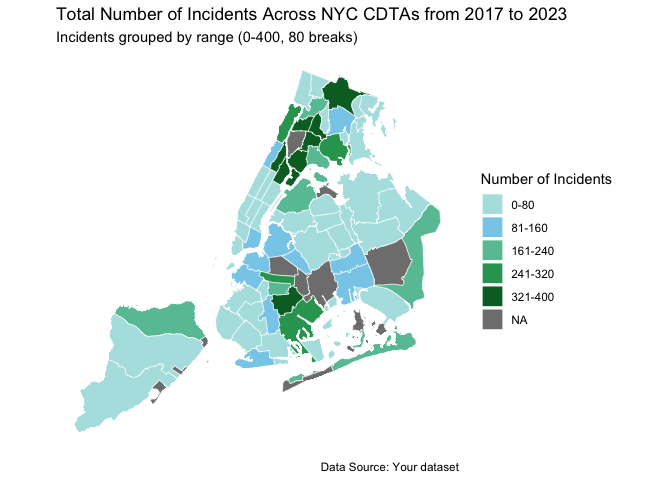
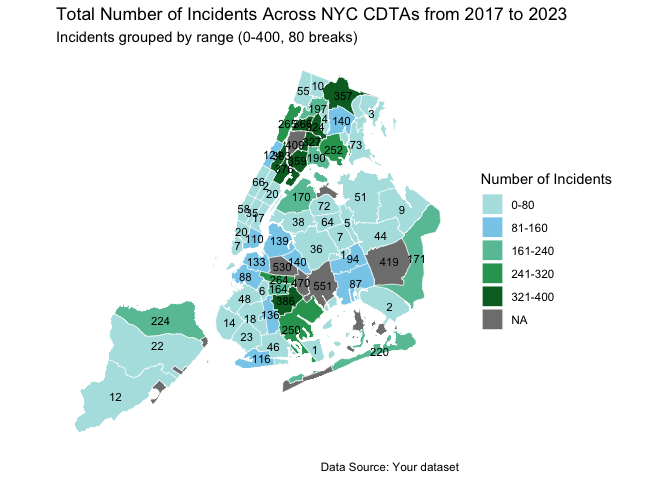
improve the plots

diff --git a/boro_nta.md b/boro_nta.md
@@ -245,6 +245,7 @@ cdta_map_data <- cdta_map_data %>%
 # Plot the map with custom ranges
 ggplot(data = cdta_map_data) +
   geom_sf(aes(fill = Incident_Range), color = "white", size = 0.2) +
+  geom_sf_text(aes(label = Number_of_Incidents), size = 3, color = "black") +  # Add labels
   scale_fill_manual(
     values = c(
       "0-80" = "#b2e2e2",
@@ -264,9 +265,14 @@ ggplot(data = cdta_map_data) +
   theme(
     axis.text = element_blank(),
     axis.ticks = element_blank(),
-    panel.grid = element_blank()
+    panel.grid = element_blank(), 
+    axis.title.x = element_blank(),  # Remove x-axis label
+    axis.title.y = element_blank()
   )
 ```
+
+    ## Warning: Removed 3 rows containing missing values or values outside the scale range
+    ## (`geom_text()`).
 
 ![](boro_nta_files/figure-gfm/unnamed-chunk-10-1.png)<!-- -->
 
@@ -302,6 +308,7 @@ boro_map_data <- boro_map_data %>%
 # Plot the map with custom ranges
 ggplot(data = boro_map_data) +
   geom_sf(aes(fill = Incident_Range), color = "white", size = 0.2) +
+  geom_sf_text(aes(label = Number_of_Incidents), size = 3, color = "black") +  # Add labels
   scale_fill_manual(
     values = c(
       "0-800" = "#b2e2e2",
@@ -321,8 +328,13 @@ ggplot(data = boro_map_data) +
   theme(
     axis.text = element_blank(),
     axis.ticks = element_blank(),
-    panel.grid = element_blank()
+    panel.grid = element_blank(),
+    axis.title.x = element_blank(),  # Remove x-axis label
+    axis.title.y = element_blank()
   )
 ```
 
-![](boro_nta_files/figure-gfm/unnamed-chunk-12-1.png)<!-- -->
+    ## Warning in st_point_on_surface.sfc(sf::st_zm(x)): st_point_on_surface may not
+    ## give correct results for longitude/latitude data
+
+![](boro_nta_files/figure-gfm/unnamed-chunk-13-1.png)<!-- -->
